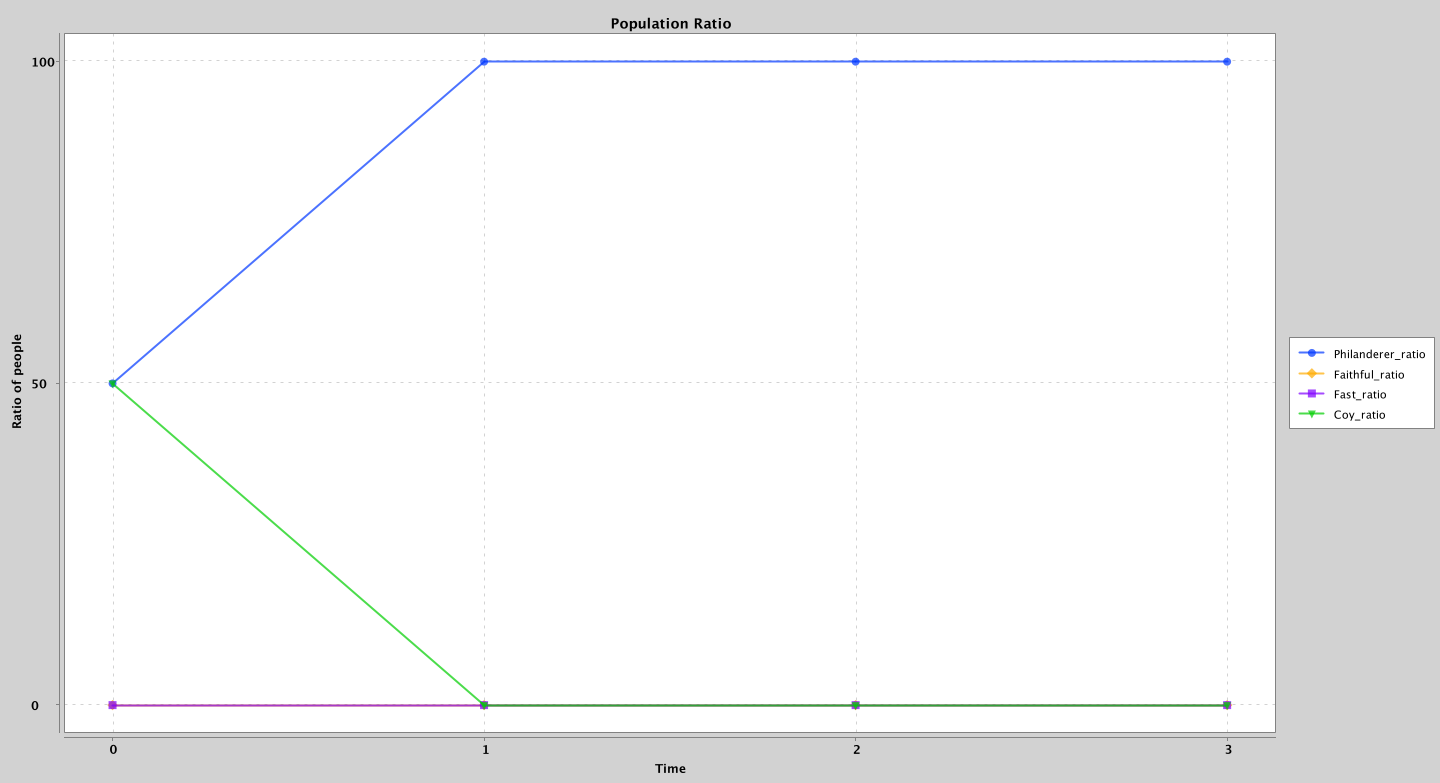
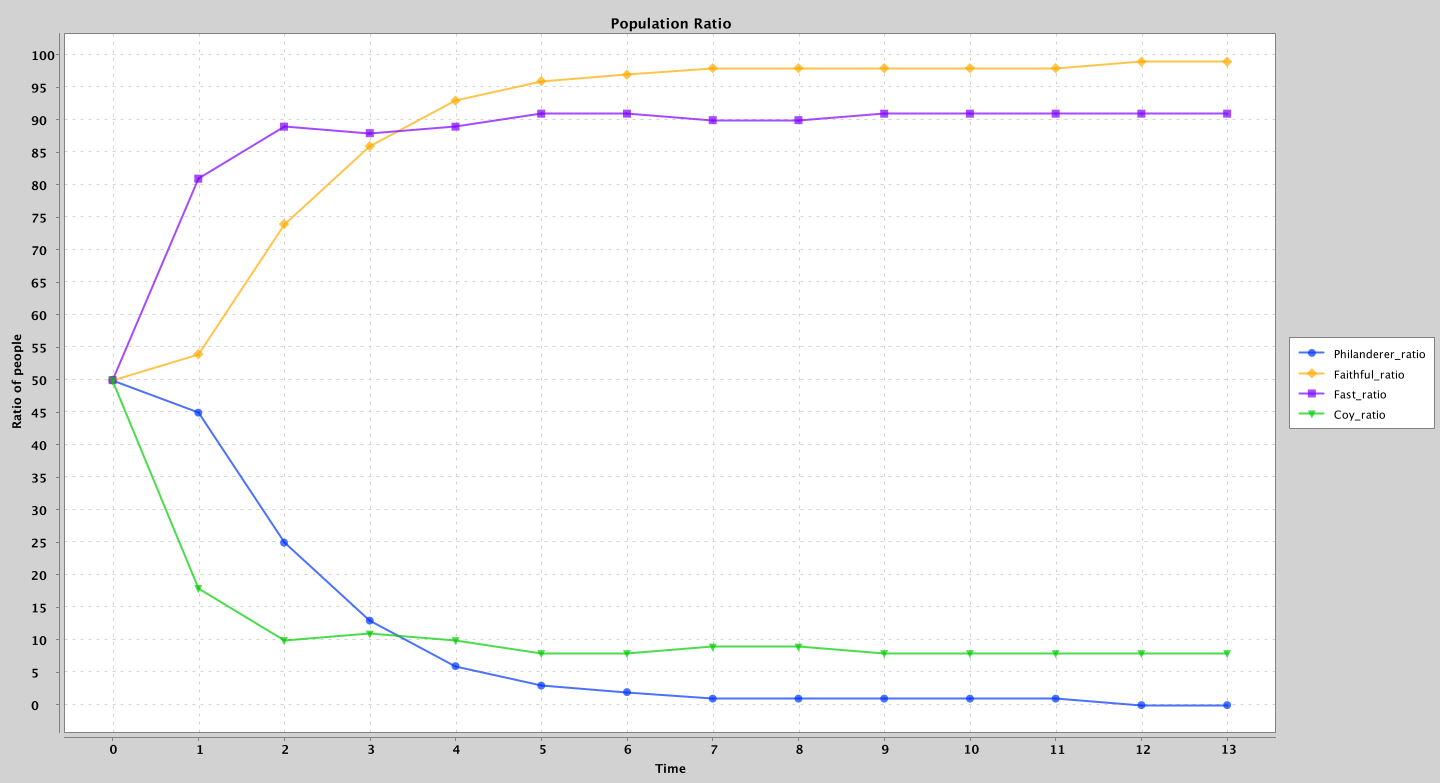
implementato max children cambiato grafico ratio: ora maschi e femmine hanno due ratio diverse (la somma dei 4 tipi è 200) perchè così è uguale al documento del prof

diff --git a/src/Population.java b/src/Population.java
@@ -72,11 +72,12 @@ public class Population {
         int[] ratio_c = new int[len];
         int[] ratio_s = new int[len];
         for(int i = 0; i < len; i++){
-            float sum = trendPopulation.get(0).get(i) + trendPopulation.get(1).get(i)  + trendPopulation.get(2).get(i)  + trendPopulation.get(3).get(i) ;
-            int p = (int) ((trendPopulation.get(0).get(i) /sum) * 100);
-            int f = (int) ((trendPopulation.get(1).get(i) /sum) * 100);
-            int c = (int) ((trendPopulation.get(2).get(i) /sum) * 100);
-            int s = (int) ((trendPopulation.get(3).get(i) /sum) * 100);
+            float sumMales = trendPopulation.get(0).get(i) + trendPopulation.get(1).get(i);
+            float sumFemales = trendPopulation.get(2).get(i)  + trendPopulation.get(3).get(i);
+            int p = (int) ((trendPopulation.get(0).get(i) /sumMales) * 100);
+            int f = (int) ((trendPopulation.get(1).get(i) /sumMales) * 100);
+            int c = (int) ((trendPopulation.get(2).get(i) /sumFemales) * 100);
+            int s = (int) ((trendPopulation.get(3).get(i) /sumFemales) * 100);
             ratio_p[i] = p;
             ratio_f[i] = f;
             ratio_c[i] = c;

diff --git a/src/Female.java b/src/Female.java
@@ -6,18 +6,24 @@ public class Female extends Individual{
 
     @Override
     public synchronized void run() {
-        while(Main.untilEquilibriumReached) {
+        while(Main.untilEquilibriumReached && numberChildren < maxChildren) {
 
             while(Time.day) {
                 Population.club.push(this);
                 try {
                     wait();
+                    // start check points
                     if (this.points < 1) {
                         synchronized (Population.numberIndividuals) {
                             Population.numberIndividuals[this.type]--;
                         }
                         return;
                     }
+                    // start check children
+                    if (this.numberChildren >= maxChildren) {
+                        return;
+                    }
+                    // end checks
                     sleep(25); // troppo irrequieti
                 } catch (InterruptedException dying) {}
             }

diff --git a/src/Male.java b/src/Male.java
@@ -12,12 +12,18 @@ public class Male extends Individual{
                 try {
                     Female myGirl = Population.club.pop();
                     myGirl.giveBirth(this);
+                    // start check points
                     if (this.points < 1) {
                         synchronized (Population.numberIndividuals) {
                             Population.numberIndividuals[this.type]--;
                         }
                         return;
                     }
+                    // start check children
+                    if (this.numberChildren >= maxChildren) {
+                        return;
+                    }
+                    // end checks
                     sleep(25); // troppo irrequieti
                 } catch (InterruptedException dying) {}
             }

diff --git a/src/Individual.java b/src/Individual.java
@@ -9,8 +9,8 @@ public class Individual extends Thread {
 
     protected int type;
     protected int points = 4;   //initial points
-    protected volatile int numberChildren = 0;
-    protected static int maxChildren = 2; // todo until Equilibrium is reached
+    public volatile int numberChildren = 0;
+    protected static int maxChildren = 3; // todo until Equilibrium is reached
 
     protected static final int a = 15;     //benefit of having a baby
     protected static final int b = 20;     //cost of having a baby !!always even!!

diff --git a/src/Coy.java b/src/Coy.java
@@ -21,7 +21,7 @@ public class Coy extends Female {
             gentleman.points += (a-b/2-c);
             this.points += (a-b/2-c);
 
-            if(false){
+            if(random.nextBoolean()){
                 Coy ind = new Coy();
                 ind.start();
             }
@@ -29,6 +29,9 @@ public class Coy extends Female {
                 Faithful ind = new Faithful();
                 ind.start();
             }
+
+            this.numberChildren++;
+            gentleman.numberChildren++;
         }
 
         //TODO

diff --git a/src/Main.java b/src/Main.java
@@ -13,12 +13,12 @@ public class Main {
 
     public static void main(String[] args) throws InterruptedException, IOException {
 
-        Population p = new Population(1,0,0,1);
+        Population p = new Population(5,5,5,5);
         Population.printMalesFemalesTot(); // initial condition
         Population.updateGraph(0); // graph at time zero
 
         int i = 0;
-        while (i < 3) {
+        while (i < 13) {
             i++;
             Time.dayTime(50); // true
             Time.nightTime(i); // false

diff --git a/src/Fast.java b/src/Fast.java
@@ -46,6 +46,9 @@ public class Fast extends Female {
             }
         }
 
+        this.numberChildren++;
+        gentleman.numberChildren++;
+
         this.notify();
     }
 }
